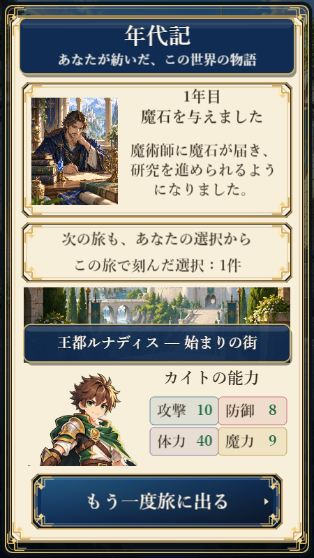
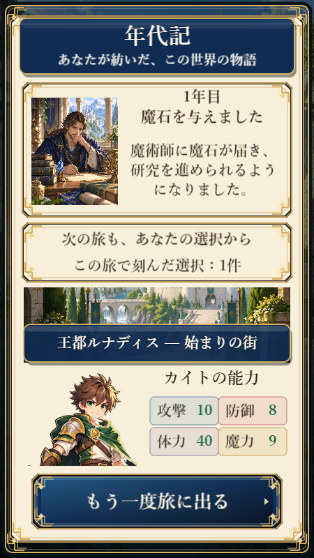
Add warrior merchant and outlaw outcome art patterns

Changed region(s): [[0.086, 0.1828, 0.3726, 0.3656]]

diff --git a/games/karma-quest/e2e/game.spec.ts b/games/karma-quest/e2e/game.spec.ts
@@ -413,12 +413,14 @@ test("all request results keep readable text separated on compact phones", async
         await expect.poll(() => page.locator("canvas").evaluate(node => (node as HTMLCanvasElement).width)).toBe(mode === "wide" ? 800 : 450);
       }
       if (mode === "final") await page.evaluate(() => Reflect.get(window.__qaGame.scene.getScene("GameScene"), "showFinal").call(window.__qaGame.scene.getScene("GameScene")));
-      await expect.poll(() => page.evaluate(mode => {
+      await expect.poll(() => page.evaluate(({ mode, faction }) => {
         const scene = window.__qaGame.scene.getScene("GameScene");
         const labels: Phaser.GameObjects.Text[] = [];
+        const artwork: string[] = [];
         const visit = (node: Phaser.GameObjects.GameObject): void => {
           if (Reflect.get(node, "visible") === false) return;
           if ("text" in node) labels.push(node as Phaser.GameObjects.Text);
+          if ("texture" in node) artwork.push((node as Phaser.GameObjects.Image).texture.key);
           if ("list" in node) (node as Phaser.GameObjects.Container).list.forEach(visit);
         };
         scene.children.list.forEach(visit);
@@ -433,8 +435,10 @@ test("all request results keep readable text separated on compact phones", async
           .every(label => Number.parseFloat(String(label.style.fontSize)) * scale >= 14);
         const separated = a.bottom + 3 <= b.top || b.bottom + 3 <= a.top;
         const inside = a.left >= 20 && a.right <= canvas.width - 20 && (mode !== "final" || a.bottom <= 303);
-        return readable && separated && inside;
-      }, mode), { message: `${request.id}, accepted=${accepted}, ${mode}` }).toBe(true);
+        const factionArt = { warrior: "kq-bg-warrior-forge-v1", merchant: "kq-bg-merchant-market-v1", outlaw: "kq-bg-outlaw-courtyard-v1", mage: "kq-bg-mage-study-v1" };
+        const activeArt = artwork.filter(key => Object.values(factionArt).includes(key));
+        return readable && separated && inside && activeArt.length === 1 && activeArt[0] === factionArt[faction];
+      }, { mode, faction: request.faction }), { message: `${request.id}, accepted=${accepted}, ${mode}` }).toBe(true);
     }
   }
 });

diff --git a/games/karma-quest/src/conceptArt.ts b/games/karma-quest/src/conceptArt.ts
@@ -44,6 +44,12 @@ const HERO_BACK_KEY = "kq-hero-warrior-back";
 const ELDER_KEY = "kq-npc-elder";
 const REACTION_BG_KEY = "kq-bg-village-reaction";
 const MAGE_BG_KEY = "kq-bg-mage-study-v1";
+const FACTION_ART = {
+  warrior: "kq-bg-warrior-forge-v1",
+  merchant: "kq-bg-merchant-market-v1",
+  outlaw: "kq-bg-outlaw-courtyard-v1",
+  mage: MAGE_BG_KEY,
+};
 const uiByScene = new WeakMap<object, MockUi>();
 
 function invoke(scene: Runtime, key: string, ...args: unknown[]): unknown {
@@ -432,12 +438,13 @@ function outcomeArt(scene: Runtime, root: Phaser.GameObjects.Container, x: numbe
   let current = "";
   root.setData("refreshOutcomeArt", () => {
     const outcome = scene.lastOutcome;
-    const key = outcome?.faction === "mage" ? MAGE_BG_KEY
-      : outcome?.requestId === "village_food" && scene.lastAccepted ? REACTION_BG_KEY : HOME_BG_KEY;
+    const key = outcome?.requestId === "village_food"
+      ? scene.lastAccepted ? REACTION_BG_KEY : HOME_BG_KEY
+      : outcome ? FACTION_ART[outcome.faction] : HOME_BG_KEY;
     if (key === current) return;
     current = key;
     art.removeAll(true);
-    artWindow(scene, art, key, x, y, width, height, key === MAGE_BG_KEY ? 0.25 : 0.5);
+    artWindow(scene, art, key, x, y, width, height, Object.values(FACTION_ART).includes(key) ? 0.22 : 0.5);
   });
 }
 
@@ -690,7 +697,7 @@ export function installKarmaConceptArtPass(): void {
       this.load.image(HERO_BACK_KEY, `images/${HERO_BACK_KEY}.png`);
       this.load.image(ELDER_KEY, `images/${ELDER_KEY}.png`);
       this.load.image(REACTION_BG_KEY, `images/${REACTION_BG_KEY}.png`);
-      this.load.image(MAGE_BG_KEY, `images/${MAGE_BG_KEY}.png`);
+      for (const key of Object.values(FACTION_ART)) this.load.image(key, `images/${key}.png`);
       return result;
     };
   }

diff --git a/docs/review/karma-faction-art-patterns.md b/docs/review/karma-faction-art-patterns.md
@@ -1,0 +1,25 @@
+# 派閥別の場面パターン
+
+内蔵 image_gen で生成（2026-09-18）。全素材1024×1536、縦横比を維持して表示。承諾・拒否共通の中立的な場面。結果画面の縦横と年代記のイベント画像に連動する。
+
+- 戦士: `games/karma-quest/public/images/kq-bg-warrior-forge-v1.png` — 鍛冶場と訓練場
+- 商人: `games/karma-quest/public/images/kq-bg-merchant-market-v1.png` — 王都の市場と商隊
+- 荒くれ者: `games/karma-quest/public/images/kq-bg-outlaw-courtyard-v1.png` — 酒場の中庭
+- 魔術師: 既存の `kq-bg-mage-study-v1.png` — 研究室
+
+4派閥・全8依頼に対応。出来事そのものの成功演出ではなく、派閥の活動場所を表す。依頼ごとの固有演出と選択画面の依頼者立ち絵は今後の対象。
+
+生成プロンプト:
+
+## warrior
+
+Use case: stylized-concept. Asset for Karma Quest fantasy mobile RPG, portrait 1024x1536. Polished anime painterly illustration, detailed fabrics and architecture, warm sunlight, blue green gold palette, white medieval castle kingdom. Neutral moment usable after either granting or declining a request, no celebration, no exchange of goods, no explicit success/failure. Main adult character head and hands and relevant objects all in the middle 25%-65% height, inside central 70% width, must crop to wide center band without cutting face. Upper architecture, lower environmental detail. No text, UI, border, logo or watermark. Scene: a disciplined adult female knight with auburn braided hair in practical steel armor and a dark green cape, thoughtfully examining an unsharpened training sword beside a forge courtyard. Iron ingots and a weapons rack nearby, sunlit castle training grounds beyond. Composed thoughtful expression, dignified strong silhouette, waist-up main subject.
+
+## merchant
+
+Use case: stylized-concept. Asset for Karma Quest fantasy mobile RPG, portrait 1024x1536. Polished anime painterly illustration, detailed fabrics and architecture, warm sunlight, blue green gold palette, white medieval castle kingdom. Neutral moment usable after either granting or declining a request, no celebration, no exchange of goods, no explicit success/failure. Main adult character head and hands and relevant objects all in the middle 25%-65% height, inside central 70% width, must crop to wide center band without cutting face. Upper architecture, lower environmental detail. No text, UI, border, logo or watermark. Scene: an adult woman merchant with dark hair in a tidy bun, teal and ivory travel clothes and a burgundy shawl, thoughtfully checking a closed ledger and brass balance scales at a covered market stall. Packed crates and a stationary caravan wagon nearby; a bright white castle gate and cobbled road in the background. No customers buying, no money changing hands. Waist-up central composition, inviting colorful textiles and trade goods, calm capable expression.
+
+## outlaw
+
+Use case: stylized-concept. Asset for Karma Quest fantasy mobile RPG, portrait 1024x1536. Polished anime painterly illustration, detailed fabrics and architecture, warm sunlight, blue green gold palette, white medieval castle kingdom. Neutral moment usable after either granting or declining a request, no celebration, no exchange of goods, no explicit success/failure. Main adult character head and hands and relevant objects all in the middle 25%-65% height, inside central 70% width, must crop to wide center band without cutting face. Upper architecture, lower environmental detail. No text, UI, border, logo or watermark. Scene: a rugged adult male adventurer with short tousled dark hair, a small healed eyebrow scar, weathered leather armor and a rust-red scarf, resting at a wooden tavern courtyard table. One closed coin pouch and a plain pewter mug on the table, practice rings and a notice board with no writing in the background, late-afternoon sunlight and castle rooftops beyond. Confident but thoughtful expression, no fighting, no drinking in action, no payment or toast. Hands visible resting naturally. Waist-up central figure, attractive illustrated fantasy RPG art, no skull gore.
+

diff --git a/docs/review/karma-four-screen-review.md b/docs/review/karma-four-screen-review.md
@@ -20,7 +20,7 @@
 
 - ホームの通知・ナビの可読性と実データへの接続は改善済み。依頼者の画像は全派閥で老人を共用しており、内容に合わせた素材の使い分けは残る。
 - 選択画面はユーザー指定の左下バストアップを維持。依頼者の大きさと背景の明るさを調整済みだが、モックの人物同士の視線や会話背景そのものとの差は残る。
-- 魔術師の結果・年代記には専用の研究室イラストを追加済み。[素材と生成プロンプト](karma-mage-study-asset.md)。他派閥は中立的な王都背景とし、食料配布は食料依頼の承諾時だけに限定。戦士・商人・荒くれ者の専用場面は未作成。
+- 全4派閥の結果・年代記に専用イラストを追加済み。[4パターン比較](karma-faction-patterns.png)、[追加素材と生成プロンプト](karma-faction-art-patterns.md)。食料配布は食料依頼の承諾時だけに限定。各派閥の2依頼では同じ場面を使用するため、依頼固有の演出は今後の対象。
 - 年代記の情報と横画面構成は改善済み。モックの本の見出し装飾や出来事ごとの画像の使い分けは未対応。
 - 全体の金枠・ボタンの質感にもモックとの差がある。比較画像とテスト成功をもって再現完了とは判定しない。
 

diff --git a/docs/design/karma-execution-plan.md b/docs/design/karma-execution-plan.md
@@ -100,4 +100,6 @@ npm run e2e
 
 魔術師の研究室イラストを生成し、結果と年代記へ接続。食料配布を無関係な依頼に表示する処理は解消し、専用絵のない派閥には王都背景を使用する。
 
-4画面の再現完了とは扱わない。次の実作業は戦士・商人・荒くれ者の結果用素材と、選択画面の依頼者の使い分け。その後、4画面の縦横比較を更新し、装飾・情報ナビの不足も確認する。
+戦士の鍛冶場、商人の市場、荒くれ者の中庭を追加し、4派閥の結果・年代記素材を揃えた。全8依頼の承諾・拒否と縦横回転で、対応する派閥の絵が1枚だけ表示されることを既存E2Eで検査する。[4パターン](../review/karma-faction-patterns.png)
+
+4画面の再現完了とは扱わない。次の実作業は選択画面の依頼者の使い分け。その後、装飾・横ホームの情報ナビの不足も確認する。
